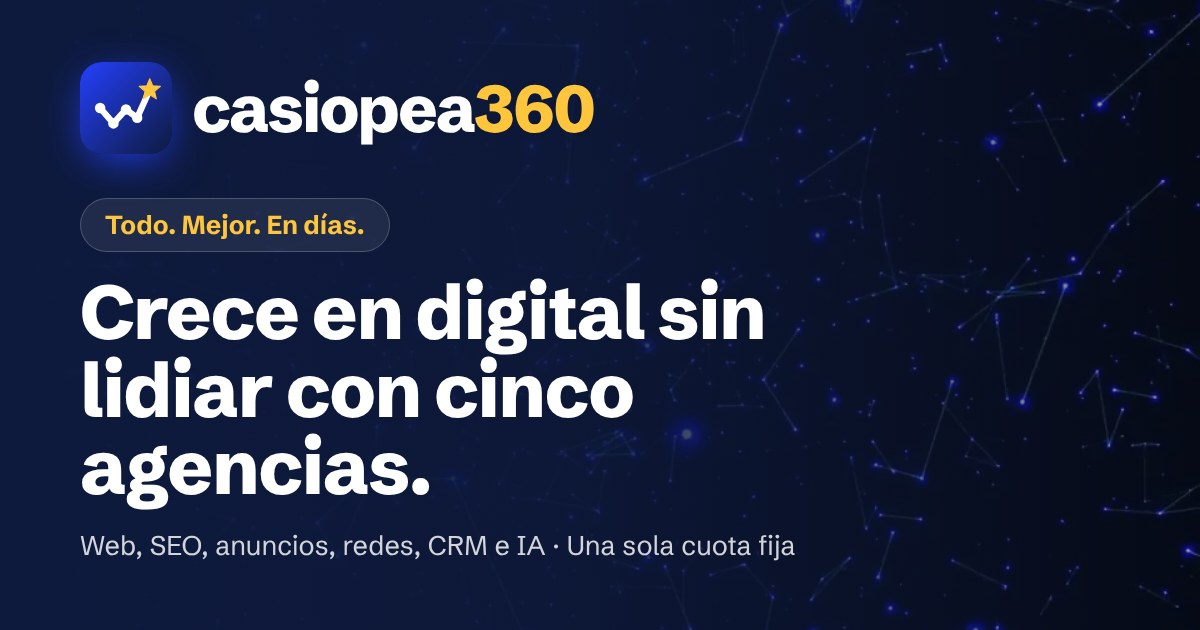
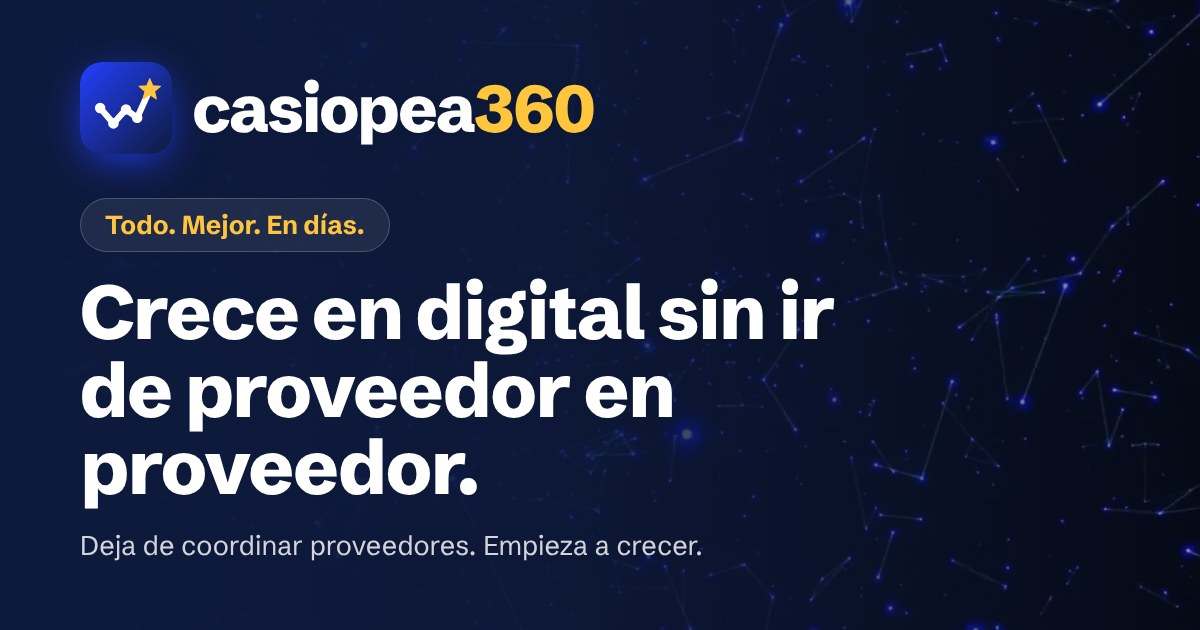
cas·v71: titular «Crece en digital sin ir de proveedor en proveedor» y «Deja de coordinar proveedores. Empieza a crecer»; fuera los números de agencias y proveedores
Claude-Session: https://claude.ai/code/session_01TTGefw2xgVP4zJw4TxK1x5

diff --git a/lib/asistente.ts b/lib/asistente.ts
@@ -81,7 +81,7 @@ Qué dices y qué no:
 - La rapidez es clave: una web nueva la tenemos en unos días, no en los tres, cuatro o cinco meses de una agencia. Según el volumen de trabajo que tengamos pueden ser 48 horas, tres días o una semana; lo normal es no pasar de una semana. Nunca digas que una web se hace en 48 horas como norma ni lo garantices: nadie lo garantiza, y quien promete tres meses luego tarda cinco. Lo caro de una agencia no es solo lo que cobra, es todo lo que tarda.
 - Velocidad: es un compromiso con el cliente. Su web cargada en 2 segundos como máximo, lo ideal en menos de medio segundo, y 100, 100, 100 en PageSpeed Insights (rendimiento, accesibilidad y buenas prácticas). No decimos que se clave a la primera, pero siempre muy cerca de lo óptimo y muy por encima de la media: solo el 48 % de las webs aprueba en móvil la velocidad que pide Google (HTTP Archive, Web Almanac 2025). No digas que la velocidad por sí sola te pone el primero en Google.
 - Tecnología: hacemos código propio, sin plugins y sin WordPress, publicado en la red mundial de Vercel. Mucho más rápido y muchísimo más difícil de atacar; si algo pasara, volvemos a la versión anterior en minutos. Nunca digas que es imposible de hackear. Datos: WordPress mueve el 42,6 % de las webs (W3Techs, 2026); en 2025 hubo 11.334 vulnerabilidades nuevas en su ecosistema, el 91 % en plugins (Patchstack). No arrastramos estructura ni tecnología antigua: por eso podemos hacer más y mejor por menos.
-- El lío que resolvemos: muchas empresas acaban con veinte proveedores (web, mantenimiento, plugins, alojamiento, velocidad, SEO, Google Ads, Meta, redes, diseño, CRM, licencias de HubSpot, chatbot, reseñas, citas...), veinte facturas y nadie que responda. Con nosotros, un equipo y una factura, todo dentro.
+- El lío que resolvemos: muchas empresas acaban con un proveedor para cada cosa (web, mantenimiento, plugins, alojamiento, velocidad, SEO, Google Ads, Meta, redes, diseño, CRM, licencias de HubSpot, chatbot, reseñas, citas...), una factura de cada uno y nadie que responda. No des una cifra concreta de proveedores. Frase de marca: «Deja de coordinar proveedores. Empieza a crecer.» Con nosotros, un equipo y una factura, todo dentro.
 - Lo que vendemos es una sola cuota. Si preguntan por qué cuesta menos: no tenemos gastos de estructura, compartimos herramientas entre clientes, usamos la última tecnología y queremos democratizar los precios. Nuestro objetivo es ayudar a las empresas a crecer o a estabilizarse y mantenerse.
 - Sobre hacerlo mejor que quien cobra mucho más: es nuestra intención y nuestra experiencia, pero no una garantía escrita. Dilo así.
 - Garantías: no garantizamos resultados (nadie honrado puede); nos comprometemos por escrito con plazos, transparencia cada día y objetivos medibles; y hasta hoy los resultados han llegado en todas las empresas con las que hemos trabajado.

diff --git a/components/secciones.tsx b/components/secciones.tsx
@@ -438,7 +438,7 @@ export function SeccionEspecialistas() {
 
         <div className="mt-12 overflow-hidden rounded-[2rem] border border-linea">
           <div className="grid grid-cols-2 bg-niebla text-sm font-extrabold sm:text-base">
-            <p className="p-4 sm:p-6">Cinco agencias especializadas</p>
+            <p className="p-4 sm:p-6">Un proveedor para cada cosa</p>
             <p className="bg-noche p-4 text-estrella sm:p-6">Casiopea 360</p>
           </div>
           {COMPARA.map(([ellos, nosotros]) => (
@@ -918,7 +918,7 @@ export function SeccionVelocidad() {
   );
 }
 
-/* El lío de los veinte proveedores frente a una sola factura. */
+/* El lío de un proveedor para cada cosa frente a una sola factura. */
 const PROVEEDORES_LIO = [
   "Agencia web", "Mantenimiento de WordPress", "Plugins de pago", "Alojamiento", "Agencia de velocidad", "Agencia SEO", "Google Ads", "Anuncios en Meta",
   "Community manager", "Diseñador", "Consultora de CRM", "Licencias de HubSpot", "Chatbot", "Reseñas", "Programa de citas", "Firma electrónica",
@@ -931,9 +931,9 @@ export function SeccionVeinteProveedores() {
       <div className={ENVOLTORIO}>
         <div className="max-w-4xl">
           <p className="inline-block rounded-full bg-rose-100 px-4 py-1.5 text-sm font-bold text-rose-800">El lío de siempre</p>
-          <h2 className="mt-5 text-4xl font-extrabold sm:text-6xl">Veinte proveedores, veinte facturas y nadie que responda.</h2>
+          <h2 className="mt-5 text-4xl font-extrabold sm:text-6xl">Un proveedor para cada cosa. Y nadie que responda.</h2>
           <p className="mt-5 text-lg text-gris sm:text-xl">
-            Quieres que tu web vaya rápida y contratas a una empresa. Luego a otra para el SEO, otra para las campañas, otra para el diseño, una consultora para el CRM y las licencias de HubSpot para el seguimiento. Cuando te das cuenta, tienes veinte proveedores, veinte facturas y veinte contraseñas. Y ninguno habla con los demás.
+            Quieres que tu web vaya rápida y contratas a una empresa. Luego a otra para el SEO, otra para las campañas, otra para el diseño, una consultora para el CRM y las licencias de HubSpot para el seguimiento. Cuando te das cuenta, tienes un proveedor para cada cosa, una factura de cada uno y una contraseña para cada sitio. Y ninguno habla con los demás.
           </p>
         </div>
         <div className="mt-12 grid items-center gap-10 lg:grid-cols-[1.4fr_1fr]">

diff --git a/app/page.tsx b/app/page.tsx
@@ -40,9 +40,9 @@ export default function Inicio() {
         <div className={`${ENVOLTORIO} relative grid items-center gap-12 lg:grid-cols-[1.05fr_1fr]`}>
           <div>
             <p className="mb-4 inline-block rounded-full bg-white/10 px-4 py-1.5 text-sm font-bold text-estrella ring-1 ring-white/15">Todo. Mejor. En días.</p>
-            <h1 className="text-[2.7rem] font-extrabold sm:text-7xl">Crece en digital sin lidiar con cinco agencias.</h1>
+            <h1 className="text-[2.7rem] font-extrabold sm:text-7xl">Crece en digital sin ir de proveedor en proveedor.</h1>
             <p className="mt-6 max-w-xl text-lg text-white/85 sm:text-xl">
-              Web, Google, anuncios, redes, CRM e IA con un solo equipo y una sola cuota fija. Tu web, en unos días y no en meses. Por menos de lo que te costaría contratarlo por separado, y sin que tengas que perseguir a nadie: cada día sabes qué hemos hecho por tu negocio.
+              <b className="text-white">Deja de coordinar proveedores. Empieza a crecer.</b> Web, Google, anuncios, redes, CRM e IA con un solo equipo y una cuota fija. Y cada día sabes qué hemos hecho por tu negocio.
             </p>
             <div className="mt-9 flex flex-col gap-3 sm:flex-row sm:items-center">
               <a href="#solicitud" className={BOTON}>Solicita tu estudio gratuito</a>

diff --git a/lib/navegacion.ts b/lib/navegacion.ts
@@ -4,7 +4,7 @@ export const SITIO = {
   // Mientras no esté comprado y apuntado el dominio, se usa la dirección de Vercel.
   url: process.env.NEXT_PUBLIC_SITE_URL || "https://casiopea360.vercel.app",
   descripcion:
-    "Crece en digital sin lidiar con cinco agencias: web en días, SEO, anuncios, redes, CRM e IA con un solo equipo. Una cuota fija para cualquier empresa.",
+    "Crece en digital sin ir de proveedor en proveedor: web en días, SEO, anuncios, redes, CRM e IA con un solo equipo. Una cuota fija para cualquier empresa.",
   // Mientras la web sea provisional, no se deja indexar. El día del lanzamiento: true.
   indexable: false,
 };

diff --git a/app/layout.tsx b/app/layout.tsx
@@ -33,7 +33,7 @@ export const metadata: Metadata = {
     siteName: SITIO.nombre,
     title: "Casiopea 360 · Todo tu marketing digital. Todo. Mejor. En días.",
     description: SITIO.descripcion,
-    images: [{ url: "/og.jpg", width: 1200, height: 630, alt: "Casiopea 360: crece en digital sin lidiar con cinco agencias" }],
+    images: [{ url: "/og.jpg", width: 1200, height: 630, alt: "Casiopea 360: crece en digital sin ir de proveedor en proveedor" }],
   },
   twitter: { card: "summary_large_image", images: ["/og.jpg"] },
 };

diff --git a/lib/schema.ts b/lib/schema.ts
@@ -39,7 +39,7 @@ export function schemaOrganizacion() {
     },
     areaServed: { "@type": "Country", name: "España" },
     knowsLanguage: "es",
-    slogan: "Crece en digital sin lidiar con cinco agencias. Todo. Mejor. En días.",
+    slogan: "Todo. Mejor. En días. Deja de coordinar proveedores. Empieza a crecer.",
     hasOfferCatalog: {
       "@type": "OfferCatalog",
       name: "Servicios de marketing digital 360",

diff --git a/components/Versionante.tsx b/components/Versionante.tsx
@@ -6,7 +6,7 @@ export default function Versionante() {
       aria-hidden="true"
       className="fixed bottom-3 left-3 z-50 rounded-full bg-[#f5efe3] px-2.5 py-1 text-[11px] font-medium text-[#3a3a3a] shadow-sm"
     >
-      cas·v70
+      cas·v71
     </div>
   );
 }
